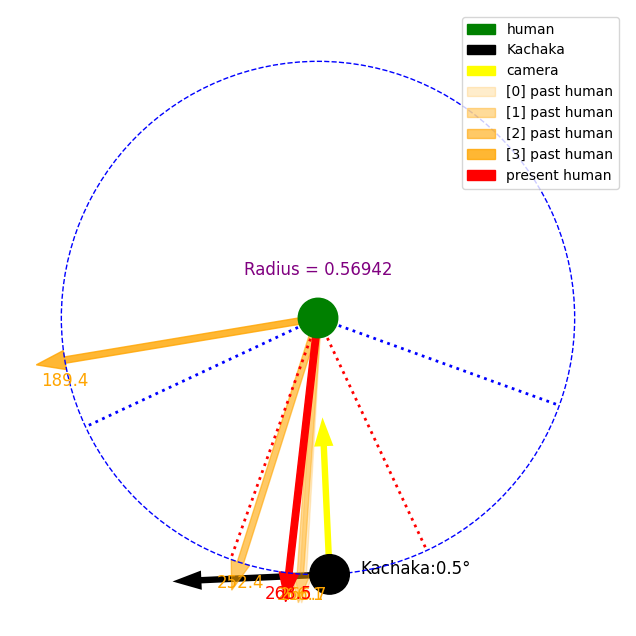
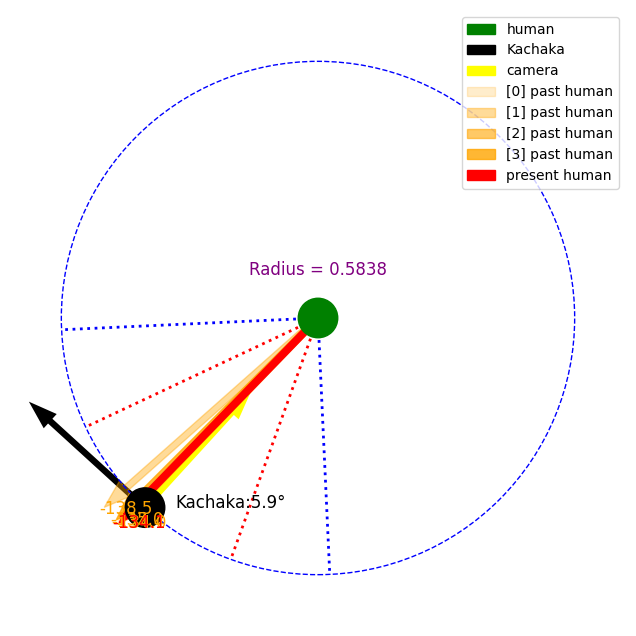
u

Changed region(s): [[0.0299, 0.478, 0.7469, 0.956], [0.3884, 0.3884, 0.6274, 0.4481], [0.1792, 0.6274, 0.2091, 0.6572]]

diff --git a/stalk/funcs.py b/stalk/funcs.py
@@ -18,7 +18,6 @@ from scipy import stats
 
 from mebow_model import MEBOWFrame
 from ultralytics import YOLO
-from fastpose import FastPose 
 import pyrealsense2 as rs
 import ultralytics
 from typing import Tuple, Optional, Dict
@@ -661,58 +660,68 @@ class KachakaFrame():
             if self.dest_pose is None:
                 pose_task = asyncio.create_task(self.get_robot_pose())
                 # get distance to target user
-                target_deg = np.rad2deg(mod_radians(np.deg2rad(self._find_deg_from_landmarks()-180))) # fix for world
+                target_deg = self._find_deg_from_landmarks() - 90
                 """DEPRECATED: find relative z_dist using landmarks from HOE"""
                 # z_dist = m.get_distance_to_hip()
                 # z_dist = m.get_distance_to_shoulder()
                 """find global z_dist from depth sensor"""
-                # l = [MPLandmark.NOSE, MPLandmark.LEFT_SHOULDER, MPLandmark.RIGHT_SHOULDER, MPLandmark.LEFT_EYE, 
-                #                 MPLandmark.RIGHT_EYE, MPLandmark.LEFT_HIP, MPLandmark.RIGHT_HIP]
-                l = [i for i in range(33)] # search from every available landmark (max 33)
+                l = [MPLandmark.NOSE, MPLandmark.LEFT_SHOULDER, MPLandmark.RIGHT_SHOULDER, MPLandmark.LEFT_EYE, 
+                                MPLandmark.RIGHT_EYE, MPLandmark.LEFT_HIP, MPLandmark.RIGHT_HIP]
+                # l = [i for i in range(33)] # search from every available landmark (max 33)
                 l = [m._convert_to_ndarray(i) for i in l]
                 l = [self.realsense.get_depth_at_pixel(int(img_w*x), int(img_h*y), self.depth_image, self.color_image) for x,y,_ in l]
                 l = filter_outliers_IQR(np.array([n for n in l if n is not None],dtype=float))
-                if len(l) > 10: # continue only if valid depths can be retrieved
+                if len(l) > 4: # continue only if valid depths can be retrieved
                     z_dist = np.average(l) # distance in meter
                     logging.debug(f"[{self.id}]KachakaFrame.adjust_to_front(). z_dist:{z_dist}, l:{len(l)}/33")
                     (pose_x, pose_y), pose_theta  = await pose_task
+                    pose_theta -= math.pi/2
                     pose_deg = np.rad2deg(pose_theta)
                     # TODO: angular offset in the x-axis between kachaka and camera, will be determined with robot arm later
                     camera_deg = 90 # camera fixed atm
                     # get angle to turn by; angle is 0 from vertical line's bottom half and is positive clockwise
-                    pose_theta -= math.pi/2
-                    target_rad = np.deg2rad(target_deg) # angle to target's orientation
+                    target_rad = np.deg2rad(target_deg) + pose_theta # angle to target's orientation
                     kachaka_look_rad = mod_radians(pose_theta - math.pi/2)
                     camera_look_rad = mod_radians(kachaka_look_rad - np.deg2rad(camera_deg)) # angle which camera is looking
                     camera_target_diff = mod_radians(camera_look_rad - target_rad - math.pi) # angle difference between camera and target
-                    print(f"mod_radians({np.rad2deg(camera_look_rad)} - {np.rad2deg(target_rad)}) = {np.rad2deg(camera_target_diff)}")
-                    if camera_target_diff < STRAIGHT_FOV_THRE or math.pi*2-camera_target_diff < STRAIGHT_FOV_THRE: # looking straight forward to person
-                        self.to_the_front_side = True
-                        d_step = 0
-                        new_rad = 0
-                        dx, dy = 0, 0
-                        new_pose = None # dont visualize destination
-                    else:
-                        if camera_target_diff < STRAIGHT_FOV_THRE * 3  or math.pi*2-camera_target_diff < STRAIGHT_FOV_THRE * 3: # adjust fast
+                    # print(f"mod_radians({np.rad2deg(camera_look_rad)} - {np.rad2deg(target_rad)}) = {np.rad2deg(camera_target_diff)}")
+                    # check if person is facing towards the camera
+                    if m.facing_camera():
+                        if camera_target_diff < STRAIGHT_FOV_THRE or math.pi*2-camera_target_diff < STRAIGHT_FOV_THRE: # looking straight forward to person
+                            self.to_the_front_side = True
+                            d_step = 0
+                            new_rad = 0
+                            dx, dy = 0, 0
+                            new_pose = None # dont move to destination
+                            self.speak("yes")
+                        else:
+                            # if camera_target_diff < STRAIGHT_FOV_THRE * 2  or math.pi*2-camera_target_diff < STRAIGHT_FOV_THRE * 3: # adjust fast
                             d_step = z_dist / (2 * math.cos(camera_target_diff))
-                            if d_step > 2: # if step size is too big (in meters) recalculate angle
-                                d_step = 2
-                                new_rad = math.acos(z_dist/(2*d_step))
-                            else:
-                                new_rad = mod_radians(camera_look_rad + math.pi + (math.pi - camera_target_diff)/2)
+                            new_rad = mod_radians(kachaka_look_rad + (math.pi - camera_target_diff)/2)
                             dx, dy = get_coords_from_angle(new_rad, d_step)
-                        else: # TODO: take fixed steps along circumference
-                            d_step = min(z_dist/2, 3) # chord len (dist to travel between 2 vertices on the circumference) in meter
-                            new_rad = 2*math.asin(2*d_step/z_dist) # angle to turn
-                            # print("2nd", c)
-                            dx, dy = get_coords_from_angle(new_rad, d_step)
+                            # else: # TODO: take fixed steps along circumference
+                            #     d_step = z_dist/2 # chord len (dist to travel between 2 vertices on the circumference) in meter
+                            #     new_rad = kachaka_look_rad + 2*math.asin(2*d_step/z_dist) # angle to turn
+                            #     dx, dy = get_coords_from_angle(new_rad, d_step)
+                            new_pose = (pose_x+dx, pose_y+dy, new_rad)
+                    else:
+                        # TODO: step movement in a preset direction
+                        # if person is facing away, simply traverse along circumference in random dir
+                        d_step = z_dist / (2 * math.cos(camera_target_diff))
+                        if d_step > 3:
+                            d_step = 3
+                            camera_target_diff = math.acos(z_dist / (2 * d_step))
+                        new_rad = mod_radians(kachaka_look_rad + (math.pi - math.pi/6)/2)
+                        dx, dy = get_coords_from_angle(new_rad, d_step)
                         new_pose = (pose_x+dx, pose_y+dy, new_rad)
-                        # self.dest_pose = new_pose
-                    
+
+                    # assign calculated destination to be moved to
+                    # self.dest_pose = new_pose
+
                     # print(f"target_deg:{round(target_deg,1)} | camera_deg:{round(camera_deg,1)} | kachaka_deg:{round(np.rad2deg(pose_theta),1)} | angle_to_turn:{round(np.rad2deg(angle_to_turn),1)}")
                     # visualize
                     await self._visualize_adjusting_to_front(z_dist, target_rad, camera_look_rad, d_step, new_pose, pose_theta, kachaka_look_rad)
-            
+
     async def _visualize_adjusting_to_front(self, z_dist, target_rads, camera_look_rad, step_distance, new_pose, kachaka_theta, kachaka_look_rad): # assumes camera is facing towards target
         m = self.mp_landmark_model
         if m.result.pose_landmarks:
@@ -743,7 +752,7 @@ class KachakaFrame():
                     ax.text(x+dx, y+dy-z_dist/10, f"{round(np.rad2deg(n),1)}", fontsize=12, ha='center', color='orange', zorder=5)
             # draw boundary for swapping turn angle calculations
             x,y = center
-            for c,j in [["red",1],["blue",3]]:
+            for c,j in [["red",1],["blue",2]]:
                 for i in (-1,1):
                     dx,dy = get_coords_from_angle(i*j*(STRAIGHT_FOV_THRE)+kachaka_theta, z_dist)
                     ax.plot((x,x+dx), (y,y+dy), color=c, linestyle="dotted", lw=2)
@@ -950,9 +959,12 @@ class MPLandmark():
         returns True if the person is facing the camera
         """
         # check if person if facing towards or away from camera
-        l_shoulder = self._convert_to_ndarray(MPLandmark.LEFT_SHOULDER)
-        r_shoulder = self._convert_to_ndarray(MPLandmark.RIGHT_SHOULDER)
-        nose = self._convert_to_ndarray(MPLandmark.NOSE)
+        try:
+            l_shoulder = self._convert_to_ndarray(MPLandmark.LEFT_SHOULDER)
+            r_shoulder = self._convert_to_ndarray(MPLandmark.RIGHT_SHOULDER)
+            nose = self._convert_to_ndarray(MPLandmark.NOSE)
+        except:
+            return False
         shoulder_mid = (l_shoulder+r_shoulder)/2
         d = nose-shoulder_mid
         return np.sign(d[2]) == -1
@@ -1079,6 +1091,7 @@ async def object_monitor_key_press(kachakas:list[KachakaFrame]):
             print("Key 'q' pressed. Terminating all tasks...")
             for kachaka in kachakas:
                 kachaka.run = False
+            dir_to_gif()
             break
         elif key.lower() == 'h':
             print("Key 'h' pressed. Returning to home...")
@@ -1134,6 +1147,7 @@ def dir_to_gif():
     from PIL import Image
     dir = "/home/yo/Desktop/kachaka/kachaka-learn/stalk/img/"
     images = [f for f in os.listdir(dir) if f.endswith(".png")]
+    images.sort()
     images = [Image.open(os.path.join(dir,f)) for f in images]
     images[0].save('output.gif',
                save_all=True,  # Save all frames
